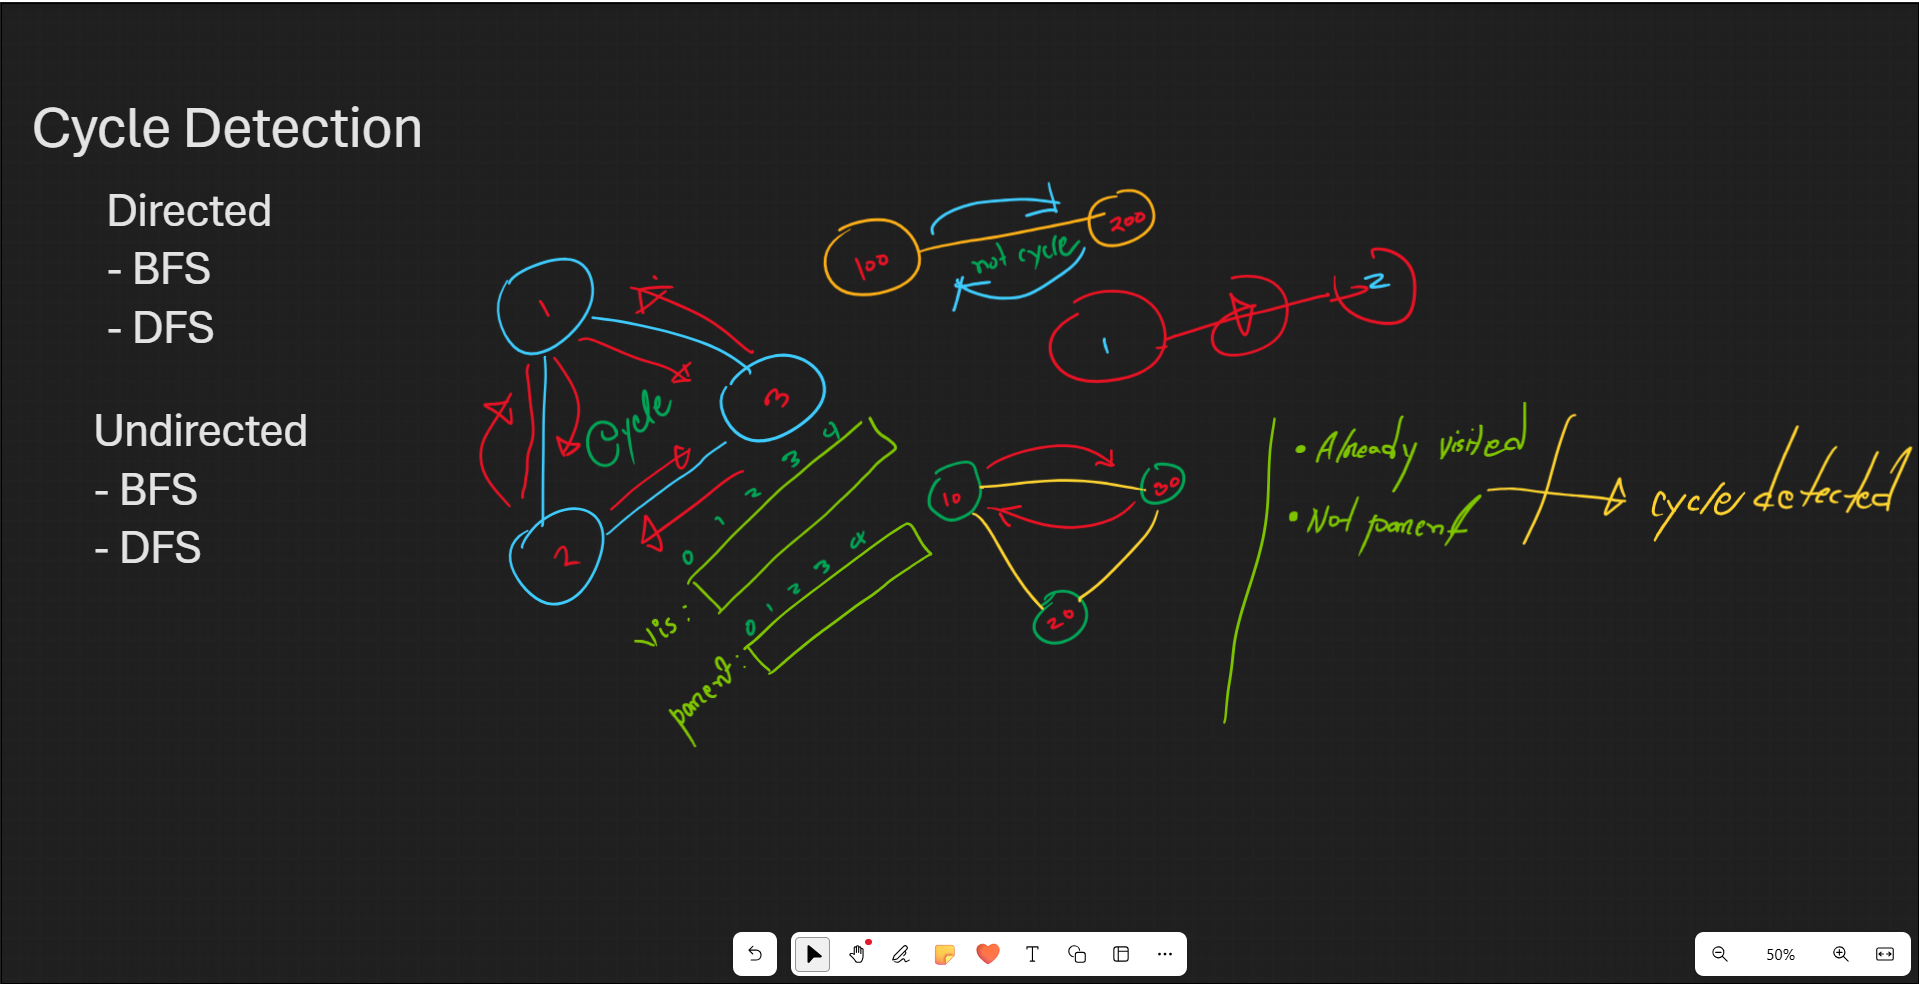
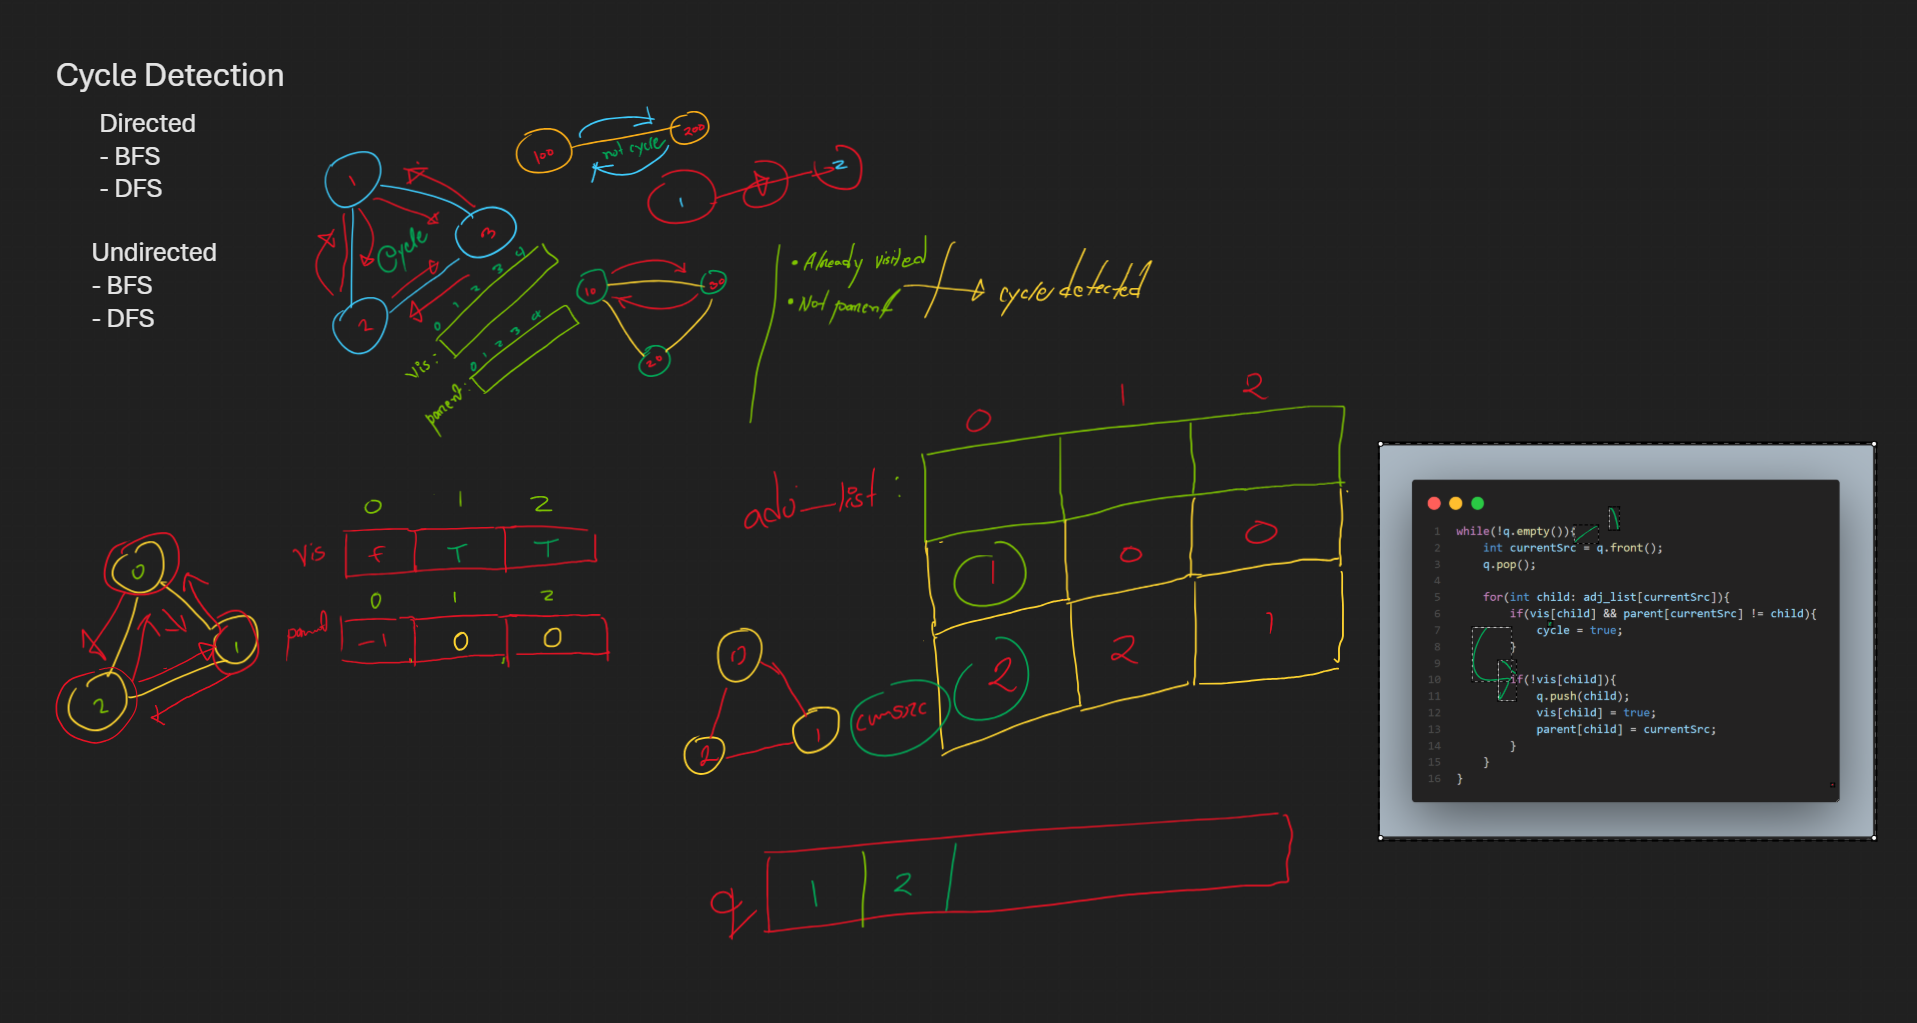
Algo: detect cycle in DFS

diff --git a/source/algorithm/modules/module_6/cycle_detection_undirected_graph_dfs.cpp b/source/algorithm/modules/module_6/cycle_detection_undirected_graph_dfs.cpp
@@ -1,0 +1,64 @@
+
+
+#include <bits/stdc++.h>
+using namespace std;
+
+    int n, e; 
+    vector<int> adj_list[105];
+    bool vis[105]; 
+    int parent[105]; 
+    bool cycle; 
+
+void bfs(int src){
+    queue<int> q; 
+    q.push(src); 
+    vis[src] = true; 
+    
+
+    while(!q.empty()){
+        int currentSrc = q.front(); 
+        q.pop(); 
+
+        for(int child: adj_list[currentSrc]){
+            if(vis[child] && parent[currentSrc] != child){
+                cycle = true; 
+            }
+            
+            if(!vis[child]){
+                q.push(child); 
+                vis[child] = true; 
+                parent[child] = currentSrc; 
+            }
+        }
+    }
+}
+
+
+int main()
+{
+
+    cin >> n >> e; 
+
+    for(int i = 0; i < e; i++){
+        int a , b; 
+        cin >> a >> b;
+        adj_list[a].push_back(b);
+        adj_list[b].push_back(a);
+    }
+
+    memset(vis, false, sizeof(vis));
+    memset(parent, -1, sizeof(parent)); 
+    cycle = false; 
+    for(int i = 0; i < n; i++){
+        if(!vis[i])
+            bfs(i); 
+    }
+
+    if(cycle)
+        cout << "Cycle Detected \n"; 
+    else    
+        cout << "No Cycle \n"; 
+
+
+    return 0;
+}

diff --git a/source/algorithm/modules/module_6/cycle_detection_undirected_graph_bfs.cpp b/source/algorithm/modules/module_6/cycle_detection_undirected_graph_bfs.cpp
@@ -9,30 +9,22 @@ using namespace std;
     int parent[105]; 
     bool cycle; 
 
-void bfs(int src){
-    queue<int> q; 
-    q.push(src); 
-    vis[src] = true; 
+void dfs(int src){
     
+    vis[src] = true; 
 
-    while(!q.empty()){
-        int currentSrc = q.front(); 
-        q.pop(); 
-
-        for(int child: adj_list[currentSrc]){
-
-            if(vis[child] && parent[currentSrc] != child){
-                cycle = true; 
-            }
-                
-        
-            if(!vis[child]){
-                q.push(child); 
-                vis[child] = true; 
-                parent[child] = currentSrc; 
-            }
+    for(int child: adj_list[src]){
+        if(vis[child] && parent[src] != child){
+            cycle = true;  
+        }
+        if(!vis[child]){
+            parent[child] = src; 
+            dfs(child); 
         }
     }
+
+
+
 }
 
 
@@ -53,7 +45,11 @@ int main()
     cycle = false; 
     for(int i = 0; i < n; i++){
         if(!vis[i])
-            bfs(i); 
+            dfs(i); 
+    }
+
+    for(int i = 0; i < n; i++ ){
+        cout << i << " parent ->> " << parent[i] << endl; 
     }
 
     if(cycle)
